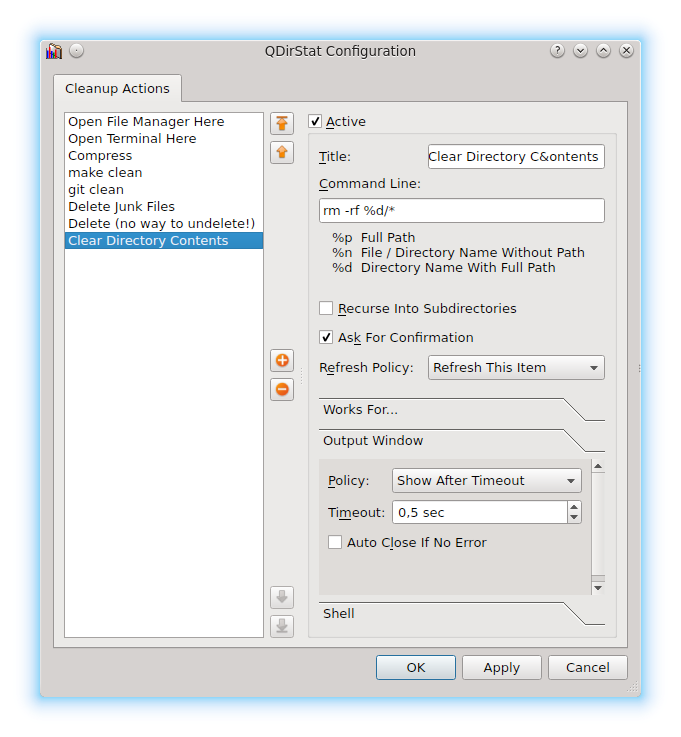
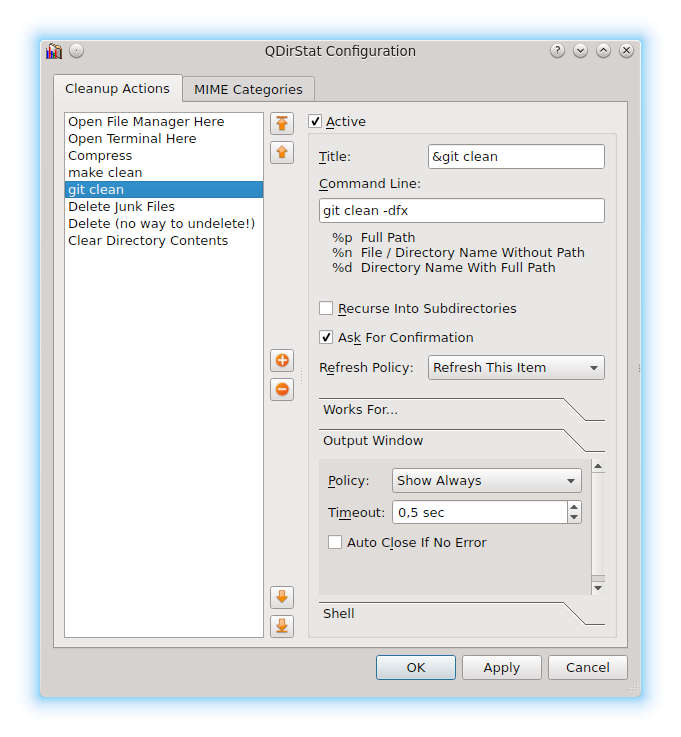
New screenshot and status update

diff --git a/README.md b/README.md
@@ -9,7 +9,7 @@ Target Platforms: Linux, BSD, Unix-like systems
 
 License: GPL V2
 
-Updated: 2016-01-16
+Updated: 2016-01-17
 
 
 ## Overview
@@ -52,6 +52,12 @@ _Screenshot of output during cleanup actions. Of course this window is purely op
 
 _Screenshot of cleanup configuration._
 
+![MIME Categories Configuration Screenshot]
+(https://github.com/shundhammer/qdirstat/blob/master/screenshots/QDirStat-mime-config.png)
+
+_Screenshot of MIME category configuration where you can set the treemap colors
+for different file types (MIME types), complete with a real treemap widget as
+preview._
 
 
 ## Current Development Status
@@ -61,6 +67,13 @@ _Screenshot of cleanup configuration._
 Usable, but still Alpha.
 
 - 2016-01-16
+
+   - The MIME categories and the corresponding treemap colors can now be
+     configured - see screenshot above. Yes, this is a real treemap widget as a
+     preview for the colors, complete with a demo directory tree with a random
+     number of files with random sizes (i.e. it looks different for each
+     invocation). That part was the last major feature that was missing; now
+     it's only little stuff that's left (still quite a number of it, though).
 
    - Treemap colors are now no longer fixed; there is now a rules engine called
      MimeCategorizer. It uses a new class MimeCategory that groups MIME types

diff --git a/screenshots/README.md b/screenshots/README.md
@@ -28,6 +28,14 @@ _Screenshot of output during cleanup actions. Of course this window is purely op
 ![Cleanup Action Configuration Screenshot]
 (https://github.com/shundhammer/qdirstat/blob/master/screenshots/QDirStat-cleanup-config.png)
 
+_Screenshot of cleanup actions configuration._
+
+![MIME Categories Configuration Screenshot]
+(https://github.com/shundhammer/qdirstat/blob/master/screenshots/QDirStat-mime-config.png)
+
+_Screenshot of MIME category configuration where you can set the treemap colors
+for different file types (MIME types), complete with a real treemap widget as preview._
+
 
 ## More Information
 
